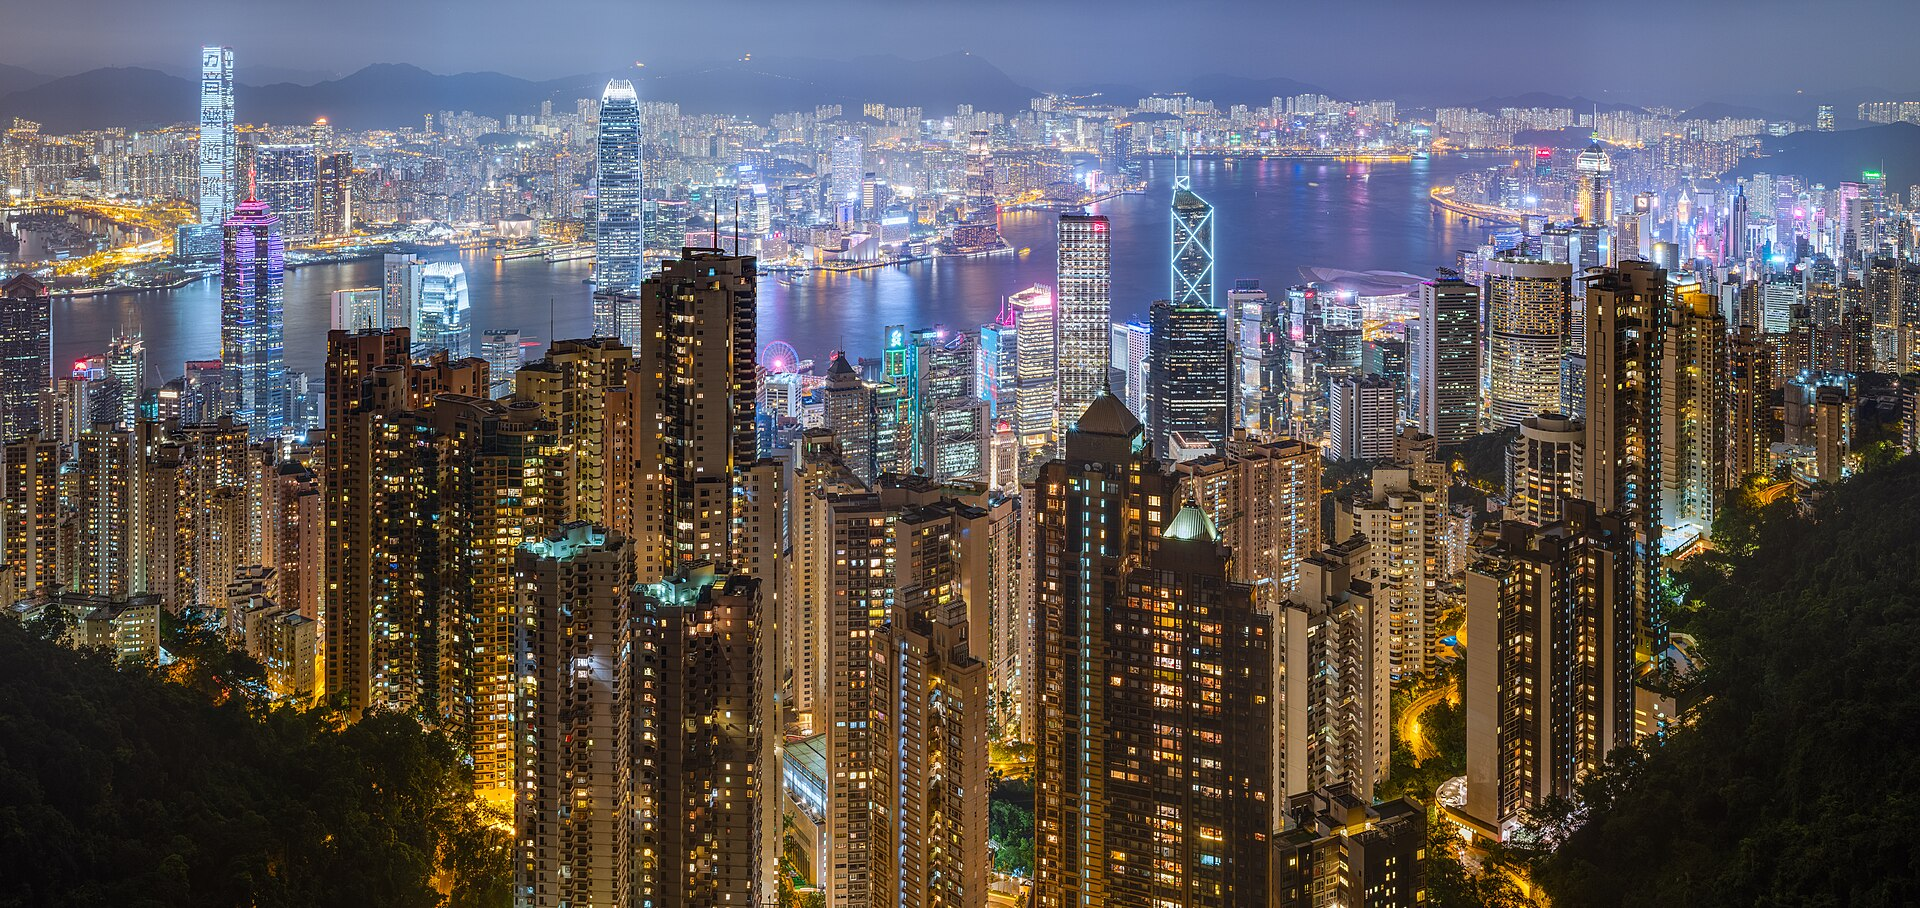
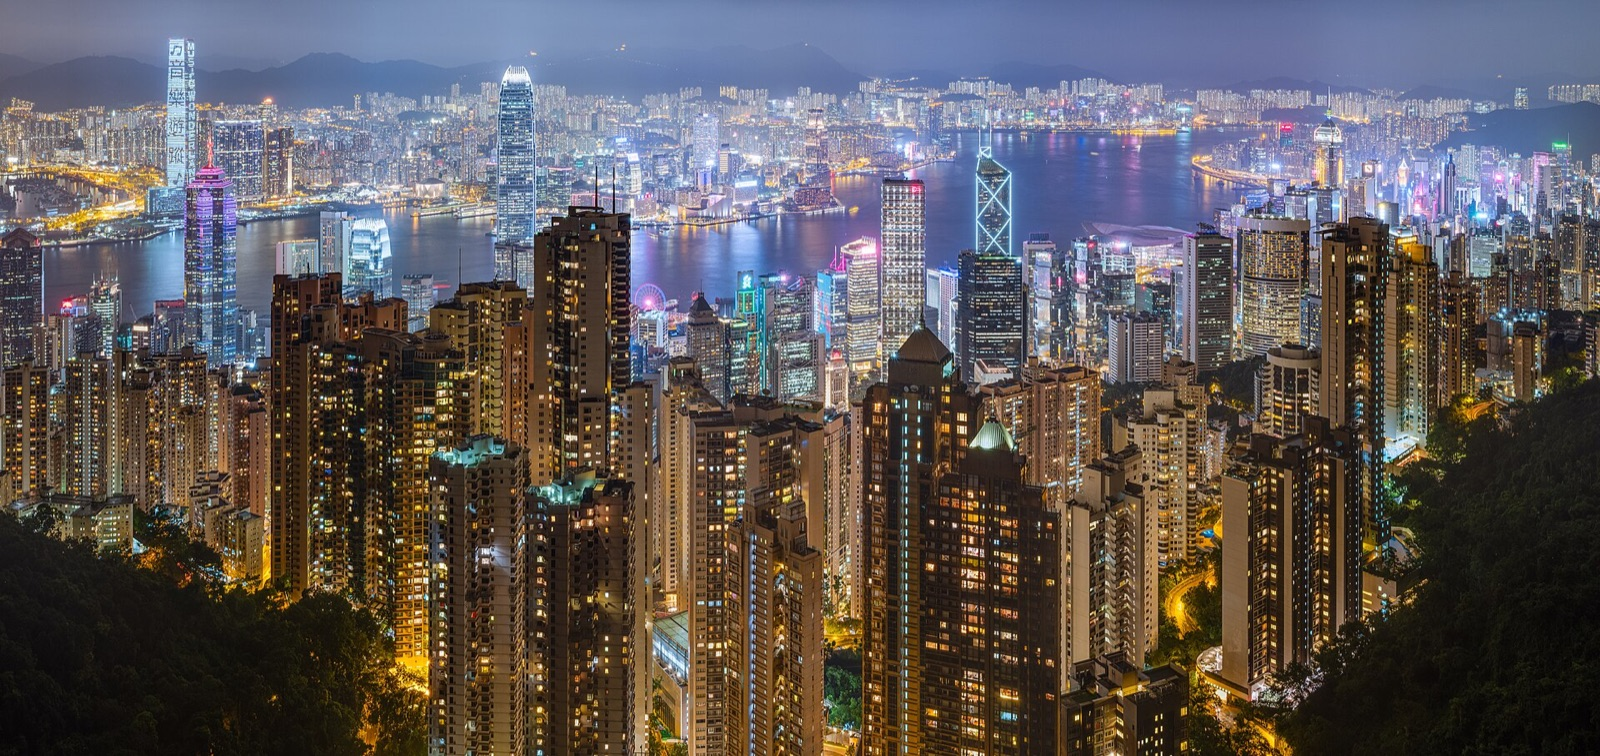
Optimize homepage images and update chair name

diff --git a/index.md b/index.md
@@ -105,7 +105,7 @@ The technical program is organized around four primary directions:
 
 ### Program Chairs
 * Dr. Dingwen Tao, _Professor, Institute of Computing Technology, Chinese Academy of Sciences, China_
-* Dr. Chi Zhou, _Assistant Professor, Hong Kong Baptist University, Hong Kong, China_
+* Amelie Chi Zhou, _Assistant Professor, Hong Kong Baptist University, Hong Kong, China_
 * Dr. Zhaorui Zhang, _Assistant Professor, The Hong Kong Polytechnic University, Hong Kong, China_
 
 ### Opening Remarks
